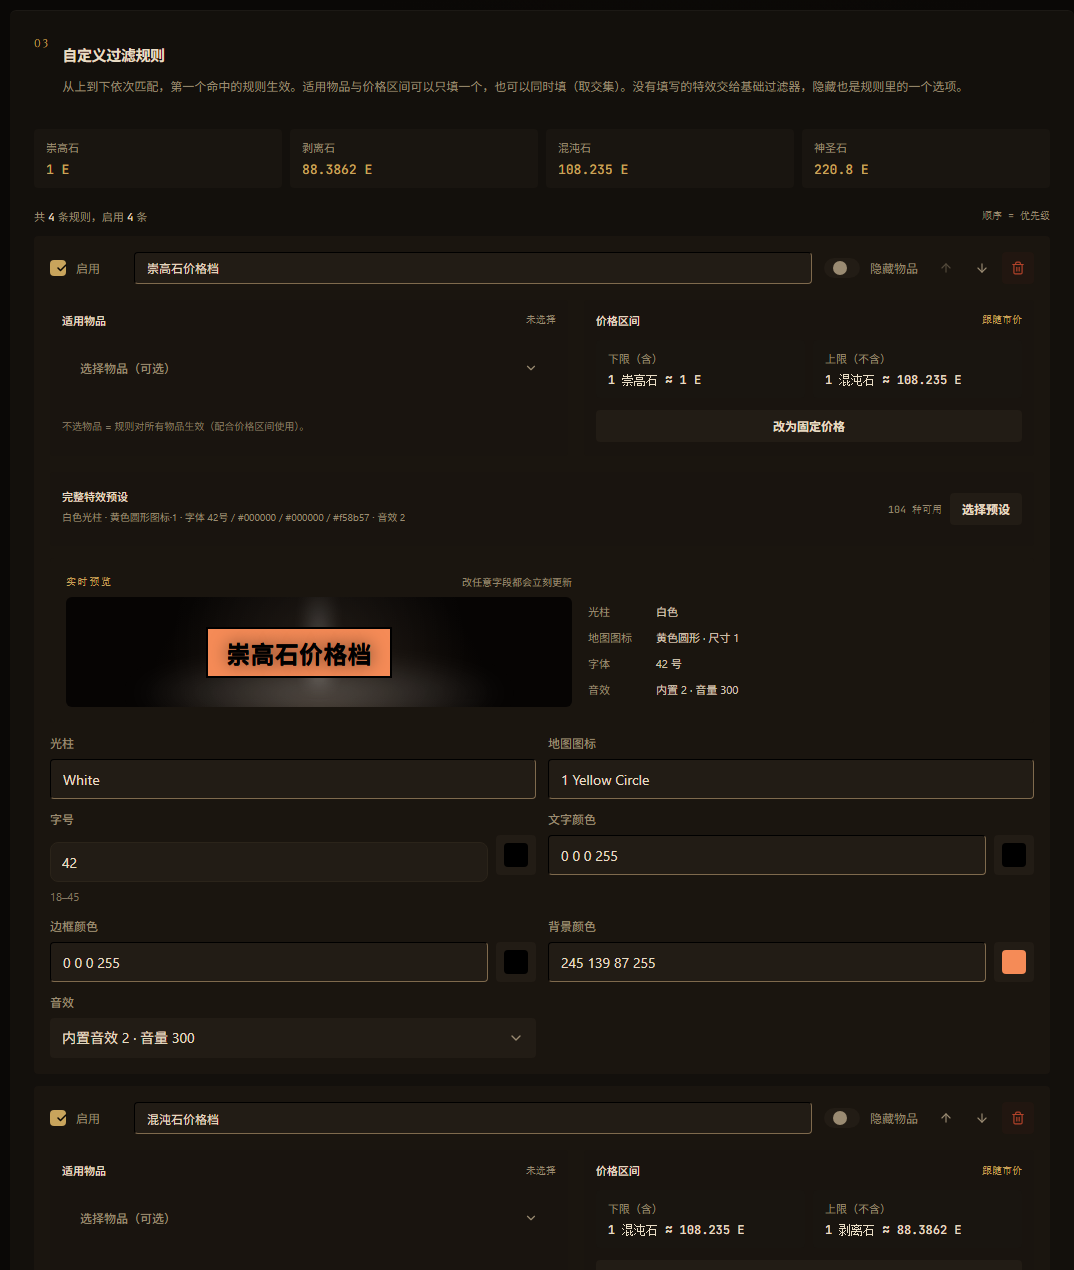
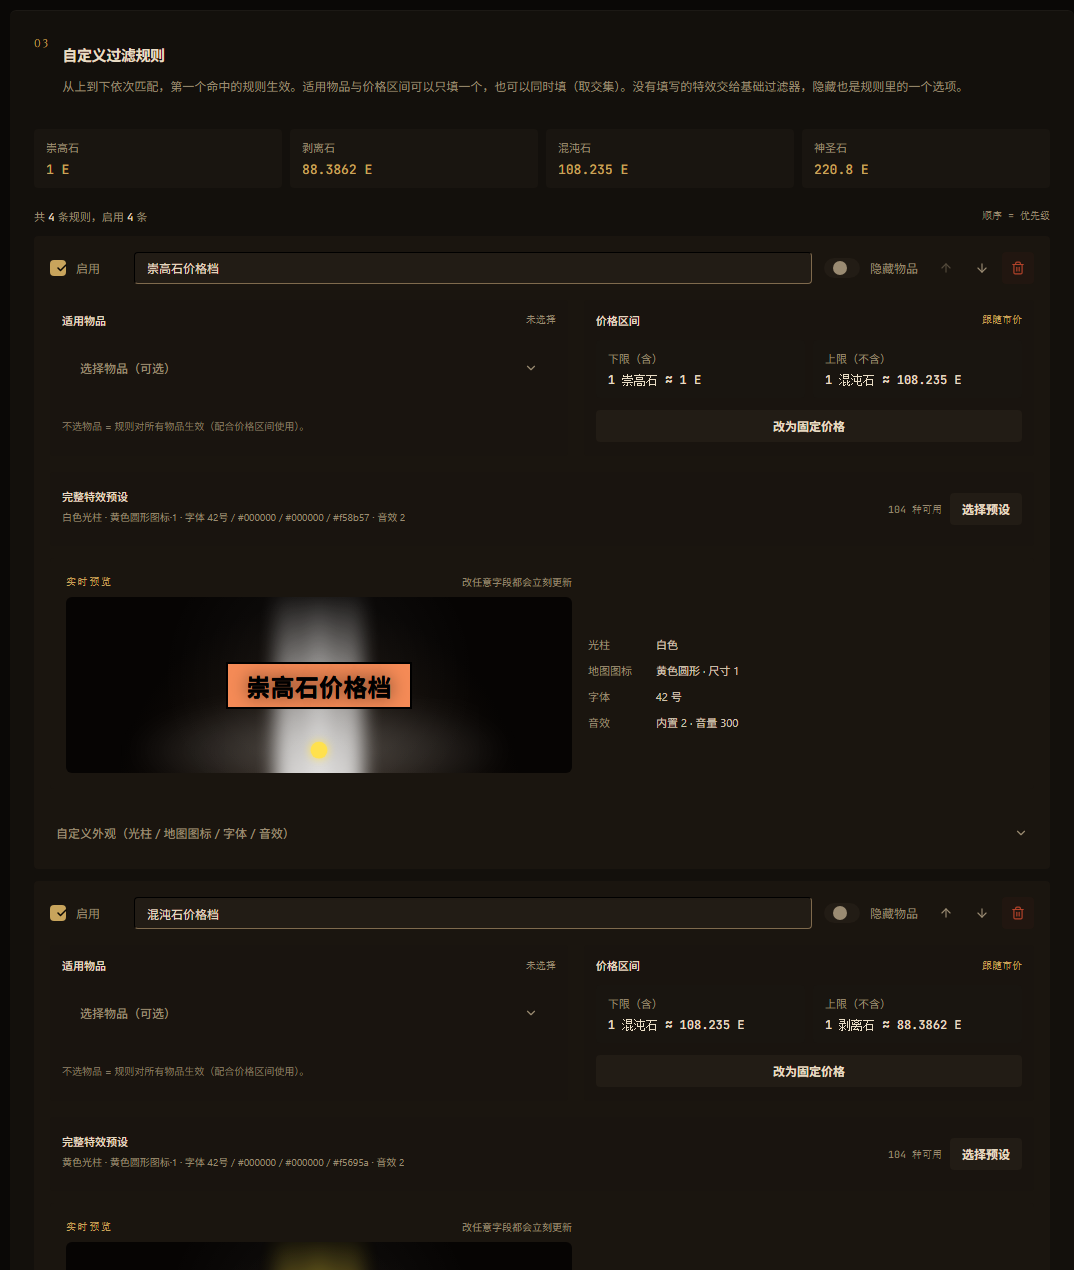
v0.2.10
- 修复预览里看不到光柱：清掉旧复合样式对 .loot-scene/.loot-beam 的覆盖，光柱改为 88px 宽、0.9 不透明度 + 地面光斑 + 光束核心
- 修复地图图标不显示：图标回到场景底部居中并加发光，尺寸 1.4rem
- 自定义外观（光柱 / 地图图标 / 字体 / 音效）默认折叠，需要微调时展开；实时预览常驻
- 截图更新

diff --git a/app/globals.css b/app/globals.css
@@ -172,12 +172,13 @@
 
   .loot-icon {
     position: absolute;
-    z-index: 1;
-    bottom: 0.8rem;
+    z-index: 2;
+    bottom: 0.75rem;
     left: 50%;
-    width: 1.15rem;
-    height: 1.15rem;
+    width: 1.4rem;
+    height: 1.4rem;
     translate: -50% 0;
+    filter: drop-shadow(0 0 5px currentColor);
   }
 
   .filter-code {
@@ -433,10 +434,6 @@ button:focus-visible, summary:focus-visible { outline: 2px solid var(--cyan); ou
 
 .appearance-select { display: block; margin: 14px 0; font-size: 12px; }
 .appearance-preview { display: grid; grid-template-columns: minmax(0, 1fr) minmax(180px, .8fr); gap: 20px; padding: 16px; margin-bottom: 10px; background: #080c11; border: 1px solid var(--border); border-radius: 8px; }
-.loot-scene { position: relative; min-height: 110px; display: flex; align-items: center; justify-content: center; gap: 16px; }
-.loot-label { position: relative; z-index: 1; padding: 6px 18px; border: 2px solid; font-size: 24px; font-weight: 600; }
-.loot-beam { position: absolute; width: 5px; height: 85px; top: 0; opacity: .65; box-shadow: 0 0 12px currentColor; }
-.loot-icon { position: relative; width: 24px; height: 24px; flex: 0 0 auto; }
 .appearance-facts { grid-template-columns: 68px minmax(0, 1fr); margin: 0; font-size: 12px; align-content: center; gap: 8px; }
 .appearance-source { font-size: 11px; margin: 8px 0 14px; }
 .appearance-source a { color: var(--muted); text-decoration: underline; text-underline-offset: 3px; }
@@ -445,7 +442,7 @@ button:focus-visible, summary:focus-visible { outline: 2px solid var(--cyan); ou
 .appearance-fields { display: grid; grid-template-columns: repeat(2, minmax(0, 1fr)); gap: 12px; margin: 10px 0; }
 .appearance-fields input { width: 100%; padding: 10px; margin-top: 7px; border: 1px solid var(--border); border-radius: 8px; background: var(--surface-3); color: var(--text); }
 .preset-grid { grid-template-columns: repeat(2, minmax(0, 1fr)); }
-@media (max-width: 680px) { .appearance-preview, .appearance-fields, .preset-grid { grid-template-columns: 1fr; } .loot-scene { min-height: 100px; } }
+@media (max-width: 680px) { .appearance-preview, .appearance-fields, .preset-grid { grid-template-columns: 1fr; } }
 
 .league-selection { display: grid; grid-template-columns: minmax(180px, 320px) minmax(0, 1fr); align-items: end; gap: 16px; margin-bottom: 20px; }
 .league-selection label { font-size: 12px; }

diff --git a/app/components/rule-editor.tsx b/app/components/rule-editor.tsx
@@ -383,7 +383,8 @@ export function RuleEditor({
         <AppearancePreview effects={rule.effects} name={rule.name || "示例物品"} />
       </div>
 
-      <div className="mt-3 grid gap-3 sm:grid-cols-2">
+      <Disclosure summary="自定义外观（光柱 / 地图图标 / 字体 / 音效）" className="mt-3 border-t border-line/60 pt-3">
+      <div className="grid gap-3 pt-3 sm:grid-cols-2">
         <Field label="光柱">
           <TextInput aria-label={rule.name + " 光柱"} placeholder="PlayEffect，留空沿用基础" value={rule.effects.beam ?? ""} onChange={(event) => editEffects({ beam: event.target.value })} />
         </Field>
@@ -451,6 +452,7 @@ export function RuleEditor({
           </div>
         </Field>
       </div>
+      </Disclosure>
     </div>
   );
 }

diff --git a/docs/design-system.md b/docs/design-system.md
@@ -53,7 +53,7 @@
 
 - 一条规则 = 「适用物品」+「特效」+「是否隐藏」。适用物品由物品集合与价格区间两个条件组成，可以只填一个，也可以同时填（生成时取交集）。
 - 「完整特效预设」是一个画廊：每个预设就是一套外观（光柱 + 地图图标 + 字体 + 音效，按视觉风格从基线抽取），点一下四项一起填好；下方字段仍可逐项手改，改完标记为「自定义」，留空表示交给基础过滤器、不写任何动作。
-- 规则卡片里保留掉落预览（光柱、标签配色、图标），实时反映当前特效。
+- 规则卡片常驻「实时预览」：光柱、标签配色、地图图标随任意字段改动立即刷新；逐项编辑字段默认折叠在「自定义外观（光柱 / 地图图标 / 字体 / 音效）」里，需要微调时再展开。
 - 隐藏是规则里的开关，隐藏规则照样可以配特效；列表顺序就是优先级，卡片的上下箭头调整顺序。
 
 物品选择器（`item-picker`）的交互约定：
